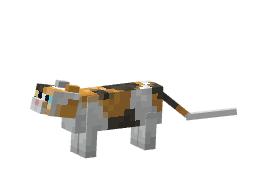
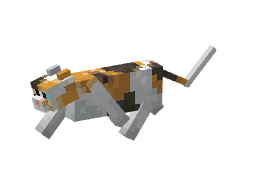
Improve cat dragging click-through and energy costs

Changed region(s): [[0.0938, 0.2188, 0.9375, 0.8438]]

diff --git a/renderer/index.html b/renderer/index.html
@@ -202,9 +202,16 @@
         }
       });
 
-      // ---- 拖拽 + 点击识别：覆盖取消、丢失捕获和窗口失焦 ----
+      // ---- 逐像素点击穿透 + 拖拽：透明区域把鼠标还给底层应用 ----
       var dragging = false, pointerId = null, downX = 0, downY = 0, moved = false;
-      function finishDrag(cancelled) {
+      var lastCatHit = null;
+      function updateCatHit(hit) {
+        hit = Boolean(hit);
+        if (hit === lastCatHit) return;
+        lastCatHit = hit;
+        window.spider && window.spider.hoverCat(hit);
+      }
+      function finishDrag(cancelled, e) {
         if (!dragging) return;
         var finishedPointer = pointerId;
         dragging = false;
@@ -213,11 +220,17 @@
           petWrap.releasePointerCapture(finishedPointer);
         }
         window.spider && window.spider.dragEnd();
+        updateCatHit(e ? isOpaqueCatPixel(e) : false);
         cat.style.cursor = 'default';
         if (!moved && !cancelled) window.spider && window.spider.openChat();
       }
       document.addEventListener('pointerdown', function (e) {
-        if (e.button !== 0 || dragging || e.target !== cat || !isOpaqueCatPixel(e)) return;
+        if (e.button !== 0 || dragging) return;
+        if (e.target !== cat || !isOpaqueCatPixel(e)) {
+          updateCatHit(false);
+          return;
+        }
+        updateCatHit(true);
         dragging = true;
         pointerId = e.pointerId;
         downX = e.screenX;
@@ -230,8 +243,10 @@
       });
       document.addEventListener('pointermove', function (e) {
         if (!dragging) {
-          // 透明空白保持普通箭头，只有猫身实际像素显示可抓取光标。
-          cat.style.cursor = e.target === cat && isOpaqueCatPixel(e) ? 'grab' : 'default';
+          // 透明空白穿透且保持普通箭头，只有猫身实际像素可抓取。
+          var hit = e.target === cat && isOpaqueCatPixel(e);
+          updateCatHit(hit);
+          cat.style.cursor = hit ? 'grab' : 'default';
           return;
         }
         if (e.pointerId !== pointerId) return;
@@ -239,18 +254,21 @@
         window.spider && window.spider.dragMove();
       });
       document.addEventListener('pointerup', function (e) {
-        if (dragging && e.pointerId === pointerId) finishDrag(false);
+        if (dragging && e.pointerId === pointerId) finishDrag(false, e);
       });
       document.addEventListener('pointercancel', function (e) {
-        if (dragging && e.pointerId === pointerId) finishDrag(true);
+        if (dragging && e.pointerId === pointerId) finishDrag(true, null);
       });
       document.addEventListener('lostpointercapture', function (e) {
-        if (dragging && e.pointerId === pointerId) finishDrag(true);
+        if (dragging && e.pointerId === pointerId) finishDrag(true, null);
       }, true);
       document.addEventListener('pointerleave', function () {
-        if (!dragging) cat.style.cursor = 'default';
+        if (!dragging) {
+          updateCatHit(false);
+          cat.style.cursor = 'default';
+        }
       });
-      window.addEventListener('blur', function () { finishDrag(true); });
+      window.addEventListener('blur', function () { finishDrag(true, null); });
     })();
   </script>
 </body>

diff --git a/agent/vitals.js b/agent/vitals.js
@@ -12,7 +12,7 @@ const CFG = {
   energyDecayPerHour: 6,          // 精力：清醒每小时衰减
   energyRecoverPerHour: 15,       // 精力：睡觉每小时恢复
   moodDriftPerHour: 5,            // 心情：向 50 漂移的速度
-  energyPerToken: 1 / 500,        // 心智消耗：每 token 消耗精力
+  energyPerToken: 1 / 1000,       // 心智消耗：每 token 消耗精力
 };
 
 const DEFAULT = { energy: 85, satiety: 75, mood: 72, sleeping: false, lastUpdated: Date.now() };
@@ -61,8 +61,8 @@ function tick(v) {
 
 // —— 互动（各返回最新状态）——
 function feed() { const v = tick(); v.satiety = clamp(v.satiety + 30, 0, 100); v.mood = clamp(v.mood + 5, 0, 100); save(v); return v; }
-function pet() { const v = tick(); v.mood = clamp(v.mood + 15, 0, 100); v.energy = clamp(v.energy - 1, 0, 100); save(v); return v; }
-function play() { const v = tick(); v.mood = clamp(v.mood + 20, 0, 100); v.energy = clamp(v.energy - 10, 0, 100); v.satiety = clamp(v.satiety - 3, 0, 100); save(v); return v; }
+function pet() { const v = tick(); v.mood = clamp(v.mood + 15, 0, 100); v.energy = clamp(v.energy - 0.5, 0, 100); save(v); return v; }
+function play() { const v = tick(); v.mood = clamp(v.mood + 20, 0, 100); v.energy = clamp(v.energy - 5, 0, 100); v.satiety = clamp(v.satiety - 3, 0, 100); save(v); return v; }
 function rest() { const v = tick(); v.sleeping = true; v.sleepReason = 'rest'; save(v); return v; }
 function wake() { const v = tick(); v.sleeping = false; v.sleepReason = null; v.mood = clamp(v.mood - 15, 0, 100); save(v); return v; }
 

diff --git a/main.js b/main.js
@@ -14,6 +14,7 @@ let chatWindow = null;
 let diaryWindow = null;
 let dragOffset = null;
 let isDragging = false;
+let catHovered = false;
 let currentVitals = null;
 let currentAnimation = 'idle';
 let sentAnimation = null;
@@ -49,6 +50,12 @@ function movePetWindow(x, y) {
   });
 }
 
+// 透明窗口默认让点击穿透；forward 保留 hover 检测，猫身才恢复鼠标捕获。
+function applyPetHitTest() {
+  if (!petWindow || petWindow.isDestroyed()) return;
+  petWindow.setIgnoreMouseEvents(!isDragging && !catHovered, { forward: true });
+}
+
 function createPetWindow() {
   const { workArea } = screen.getPrimaryDisplay();
 
@@ -70,6 +77,8 @@ function createPetWindow() {
     },
   });
 
+  catHovered = false;
+  applyPetHitTest();
   petWindow.loadFile(path.join(__dirname, 'renderer', 'index.html'));
   petWindow.webContents.on('did-finish-load', () => {
     sentAnimation = null;
@@ -84,6 +93,7 @@ function createPetWindow() {
     nextRoamTimer = null;
     dragOffset = null;
     isDragging = false;
+    catHovered = false;
     petWindow = null;
   });
 }
@@ -324,6 +334,11 @@ function createDiaryWindow() {
 }
 
 // —— 拖拽（宠物窗）：立即取消自主行为，所有退出路径统一清理 ——
+ipcMain.on('pet-hit-test', (e, hovered) => {
+  if (BrowserWindow.fromWebContents(e.sender) !== petWindow || typeof hovered !== 'boolean') return;
+  catHovered = hovered;
+  applyPetHitTest();
+});
 ipcMain.on('drag-start', (e) => {
   const win = BrowserWindow.fromWebContents(e.sender);
   if (!petWindow || win !== petWindow) return;

diff --git a/assets/cat/animations.js b/assets/cat/animations.js
@@ -37,7 +37,7 @@ window.CAT_ANIMATIONS = {
     'wake': { frames: 18, fps: 10, loop: false },
     'stretch': { frames: 28, fps: 10, loop: false },
     'hop': { frames: 12, fps: 10, loop: false },
-    'struggle': { frames: 8, fps: 10, loop: true },
+    'struggle': { frames: 16, fps: 20, loop: true },
     'happy': { frames: 16, fps: 10, loop: false },
     'beg': { frames: 26, fps: 10, loop: false },
     'attention': { frames: 26, fps: 10, loop: false },

diff --git a/preload.js b/preload.js
@@ -5,6 +5,7 @@ contextBridge.exposeInMainWorld('spider', {
   dragStart: () => ipcRenderer.send('drag-start'),
   dragMove: () => ipcRenderer.send('drag-move'),
   dragEnd: () => ipcRenderer.send('drag-end'),
+  hoverCat: (hovered) => ipcRenderer.send('pet-hit-test', hovered),
   openChat: () => ipcRenderer.send('open-chat'),
   chat: (msg, history) => ipcRenderer.invoke('agent-chat', { msg, history }),
   // 日记

diff --git a/README.md b/README.md
@@ -23,7 +23,7 @@ npm start
 
 ## 桌面交互
 
-- **拖动**：只能从猫咪当前帧的非透明像素抓起；四条腿按对角分组交替挣扎。
+- **拖动与点击穿透**：只能从猫咪当前帧的非透明像素抓起，透明区域点击直达底层应用；拖动时腹部上提，四条腿按对角分组交替挣扎。
 - **点击猫身**：打开聊天与互动面板。
 - **喂食 / 抚摸 / 玩耍 / 叫醒**：播放对应的独立动作，并更新身体状态。
 - **自主散步**：放松时短距离随机移动，走路动画与窗口位移同步。
